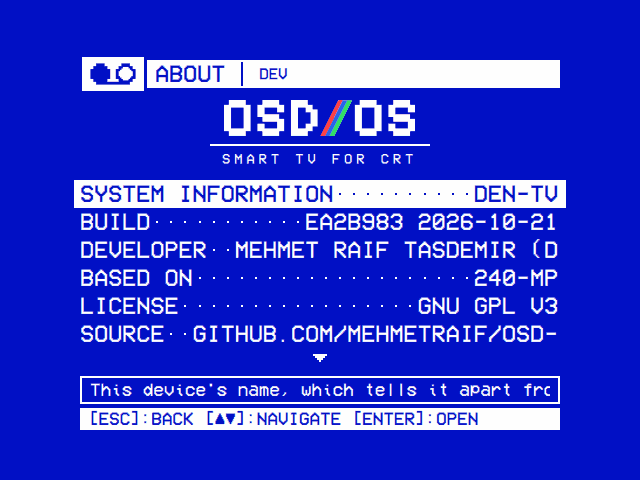
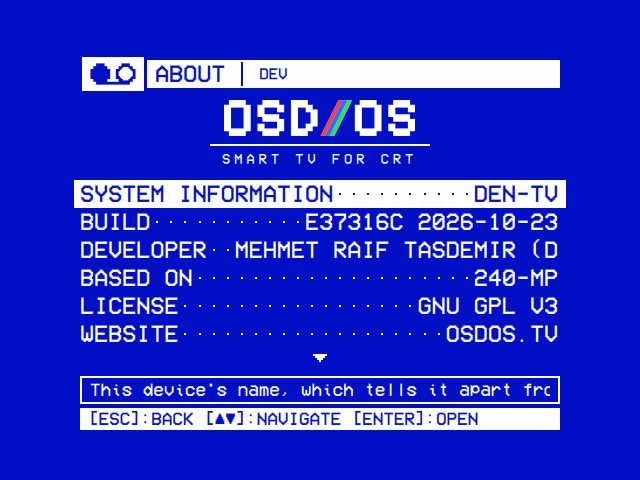
feat: a Website line in About, osdos.tv, above Source
Settings → About names OSD/OS's website, osdos.tv, on a line of its own
between License and Source: what OSD/OS is and how it is set up, the
latest release to download, and OSD/OS Setup (osdos.tv/setup), which
writes a card's first settings before it goes into the Pi. The Settings
and Using OSD/OS pages list the line, and the About screenshot is
retaken with it.

Changed region(s): [[0.125, 0.6562, 0.875, 0.7188], [0.5, 0.4375, 0.625, 0.5], [0.8438, 0.4375, 0.875, 0.5]]

diff --git a/views/About.qml b/views/About.qml
@@ -26,6 +26,7 @@ FocusScope {
     // Who makes OSD/OS, and whose work it carries on.
     readonly property string developer: "mehmet raif tasdemir (darkBLACK)"
     readonly property string developerUrl: "github.com/mehmetraif"
+    readonly property string websiteUrl: "osdos.tv"
     readonly property string sourceUrl: "github.com/mehmetraif/OSD-OS"
     readonly property string upstreamAuthor: "Anthony Caccese"
     readonly property string upstreamUrl: "github.com/anthonycaccese/240-MP"
@@ -55,6 +56,10 @@ FocusScope {
         { key: "license", label: "License", value: "GNU GPL v3", license: "LICENSE",
           description: "Free software under the GNU General Public License, version 3: use it, share it and change it, under the same license"
                        + " • It comes with no warranty • {select} The notice and the license's text" },
+        { key: "website", label: "Website", value: aboutRoot.websiteUrl,
+          description: "OSD/OS's website: what it is and how it is set up, the latest release to download, and"
+                       + " OSD/OS Setup, " + aboutRoot.websiteUrl + "/setup, which writes a card's first settings"
+                       + " before it goes into the Pi" },
         { key: "source", label: "Source", value: aboutRoot.sourceUrl,
           description: "The source code, the releases and the issues • Changes are welcome: see CONTRIBUTING.md there" },
         { key: "code", label: "Written With", value: "Claude Code",

diff --git a/docs/wiki/Settings.md b/docs/wiki/Settings.md
@@ -342,7 +342,7 @@ A build made from source (`DEV`) can check but not download, and so can the OSD/
 <tr><td>The wordmark, then System Information with this device's name, and a line for each part of what OSD/OS is, its detail in the help line.</td><td>Behind the LICENSE line: the notice, then the GNU GPL's text, a page at a time.</td></tr>
 </table>
 
-About opens on the OSD/OS wordmark and SMART TV FOR CRT. Its first line, **System Information**, shows this device's name, and select opens its page ([below](#system-information)). Under it are lines whose help line carries the detail, shown even with Help Line off: **Build** (the commit the build was made from and the day; the version is in the title bar), **Developer**, **Based On** (240-MP), **License** (GNU GPL v3), **Source**, **Written With** (Claude Code), **Artwork** (ChatGPT), **Fonts** (VCR OSD Mono, Unifont), **Built With** (Qt, SDL2, mpv), **Image OS** (Raspberry Pi OS) and **Data** (TMDB, Open-Meteo). Select on License shows the notice the GPL asks for, then the license's text from the `LICENSE` file every build carries, a page at a time with ▲ ▼ ([Credits](https://github.com/mehmetraif/OSD-OS/wiki/Credits)).
+About opens on the OSD/OS wordmark and SMART TV FOR CRT. Its first line, **System Information**, shows this device's name, and select opens its page ([below](#system-information)). Under it are lines whose help line carries the detail, shown even with Help Line off: **Build** (the commit the build was made from and the day; the version is in the title bar), **Developer**, **Based On** (240-MP), **License** (GNU GPL v3), **Website** (osdos.tv, with OSD/OS Setup), **Source**, **Written With** (Claude Code), **Artwork** (ChatGPT), **Fonts** (VCR OSD Mono, Unifont), **Built With** (Qt, SDL2, mpv), **Image OS** (Raspberry Pi OS) and **Data** (TMDB, Open-Meteo). Select on License shows the notice the GPL asks for, then the license's text from the `LICENSE` file every build carries, a page at a time with ▲ ▼ ([Credits](https://github.com/mehmetraif/OSD-OS/wiki/Credits)).
 
 Under the **ARCADE** heading are the free software the [Arcade](https://github.com/mehmetraif/OSD-OS/wiki/Arcade) and [High Scores](https://github.com/mehmetraif/OSD-OS/wiki/High-Scores) modules play and read with, **MAME**, **RetroArch**, **FinalBurn Neo**, **openhi2txt**, **hi2txt**, **RapidXML** and **minizip, zlib**, and the sites they read from, **RetroAchievements** (leaderboards, pictures and badges), **Online Play** (libretro's lobby), **progetto-SNAPS** (the pictures' packs and catver.ini, by AntoPISA) and **ArcadeDB** (Arcade Database by motoschifo, whose service gives the pictures game by game). Select on a software line shows its license the same way: the GNU GPL v3 or v2, RapidXML's or zlib's, which every build carries, and FinalBurn Neo's from the core as it was installed or downloaded (without it, where to download it).
 

diff --git a/docs/wiki/Using-OSD-OS.md b/docs/wiki/Using-OSD-OS.md
@@ -391,6 +391,7 @@ Settings → **About** opens on the OSD/OS wordmark and **SMART TV FOR CRT**, th
 | Developer | mehmet raif tasdemir (darkBLACK), who develops OSD/OS |
 | Based On | 240-MP, by Anthony Caccese and its contributors, which OSD/OS is a modified version of |
 | License | GNU GPL v3. Select opens the license |
+| Website | osdos.tv: what OSD/OS is, the latest release and OSD/OS Setup, which writes a card's first settings |
 | Source | Where the source, the releases and the issues are |
 | Written With | Claude Code, which OSD/OS's changes were written with |
 | Artwork | ChatGPT, which the logos and the boot screen's cassette were made with |
